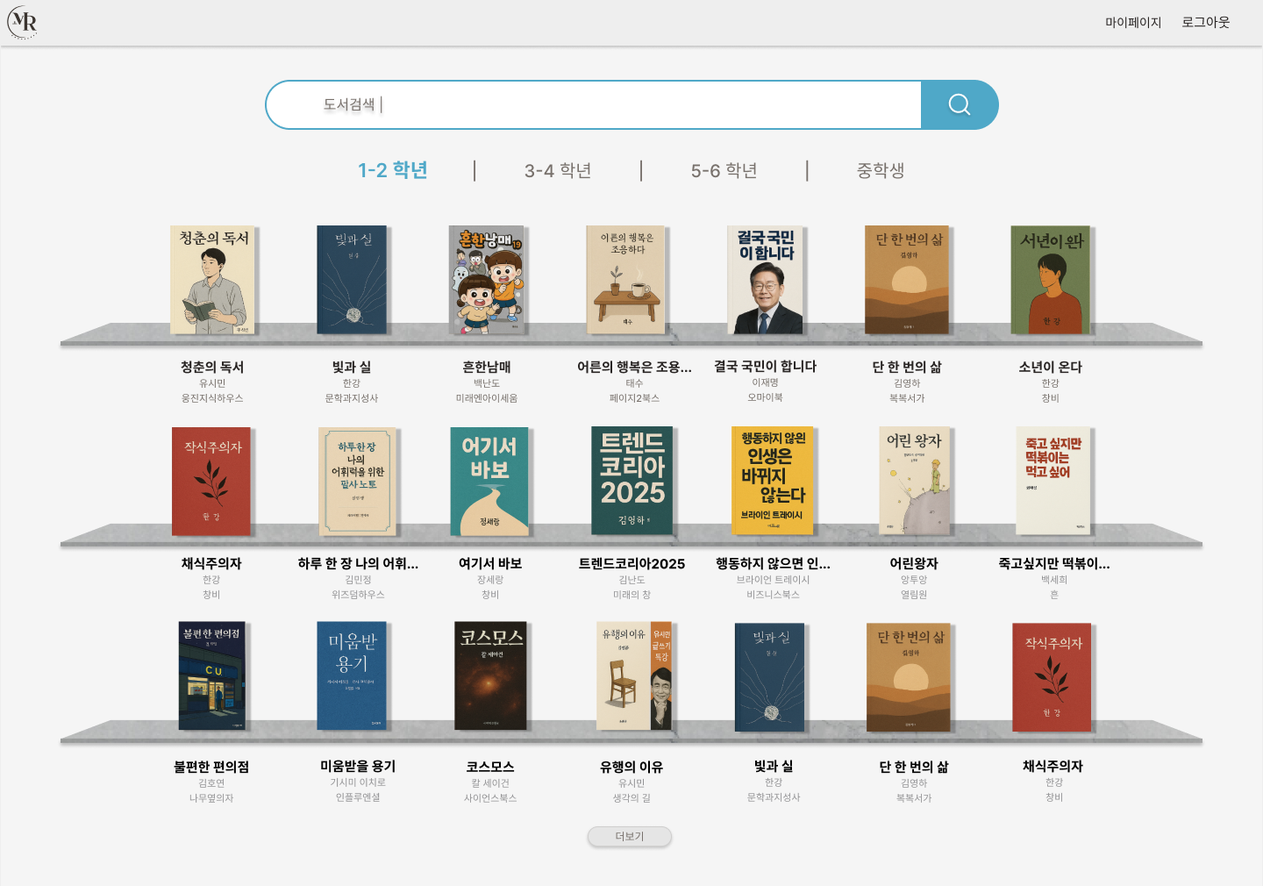
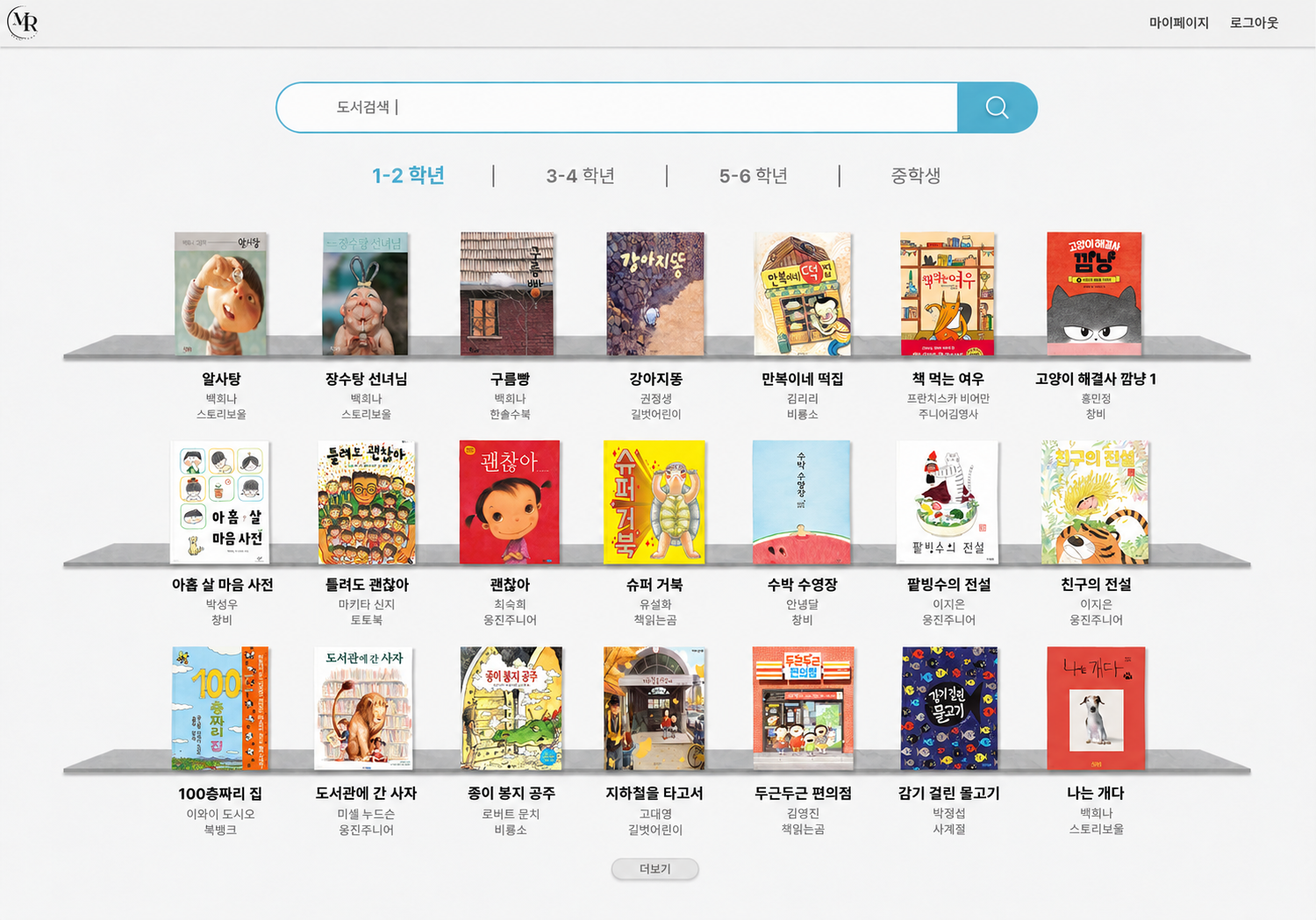
Update project 02 page and images, add ITDAM list cover

diff --git a/html/project2.html b/html/project2.html
@@ -37,7 +37,7 @@
         <p class="detail-subtitle">제안으로 얻은 신뢰, 구현으로 이어진 기회</p>
 
         <p class="detail-lead-text">
-          수작업으로 운영되던 독서 테스트와 재시험을 온라인화해, 학생의
+          수작업으로 운영되던 독서 테스트와 재시험을 온라인화 해, 학생의
           독서 이해도를 누적 관리할 수 있도록 기획한 웹 서비스입니다. 책
           선택부터 독서, 퀴즈, 오답 재풀이, 결과 기록까지 하나의 학습
           흐름으로 연결했습니다.
@@ -71,7 +71,7 @@
 
           <div class="detail-fact">
             <dt>Tools</dt>
-            <dd>Figma</dd>
+            <dd>Figma · HTML</dd>
           </div>
         </dl>
 
@@ -289,7 +289,7 @@
         </div></div>
 <p>학생은 읽은 책을 고르고 문제를 풀며, 선생님은 학생별 기록을 확인합니다. 추가로 학부모가 아이의 독서 현황을 살펴보는 기능도 함께 구성했습니다.</p>
 <div class="case-three"><article><span>학생</span><h3>읽은 책을 찾아 테스트하기</h3><p>문제 풀이, 자동 채점과 재풀이, 개인 독서 기록</p></article><article><span>강사</span><h3>학생의 학습 기록 확인하기</h3><p>학생별 도서·점수·진행 현황을 한곳에서 확인<br />리더보드를 활용해 독서 참여 독려</p></article><article><span>학부모</span><h3>아이의 독서 현황 살펴보기</h3><p>누적 독서량과 개인 기록 확인.</p></article></div>
-<figure class="pj2-wide case-figure"><div class="case-compare"><div><p class="case-version">도서 찾기</p><button class="case-image" type="button" data-enlarge aria-label="기존 시스템의 도서 찾기 — 크게 보기"><img src="../Image/PJ2_images/book_browse.png" width="1440" height="1010" alt="기존 시스템의 도서 찾기" loading="lazy" decoding="async"/><span class="case-enlarge" aria-hidden="true">크게 보기 ↗</span></button>
+<figure class="pj2-wide case-figure"><div class="case-compare"><div><p class="case-version">도서 찾기</p><button class="case-image" type="button" data-enlarge aria-label="기존 시스템의 도서 찾기 — 크게 보기"><img src="../Image/PJ2_images/book_browse.png" width="1500" height="1049" alt="기존 시스템의 도서 찾기" loading="lazy" decoding="async"/><span class="case-enlarge" aria-hidden="true">크게 보기 ↗</span></button>
 <details class="case-details case-screen-notes">
   <summary>도서 탐색 설계 과정 보기</summary>
   <div class="case-screen-notes-body">
@@ -331,7 +331,7 @@
 </div></div></figure>
 <div class="case-record-head">
   <span class="case-record-label">독서 기록과 참여</span>
-  <h3>한 번의 테스트가, 다음 독서로 이어지도록</h3>
+  <h3>한 번의 테스트가, 다음 독서로 이어지도록 했습니다</h3>
   <p>마이페이지에서는 쌓인 독서 기록을 확인하고, 리더보드에서는 다른 학생들과 독서 성과를 비교할 수 있도록 구성했습니다.</p>
 </div>
 <figure class="pj2-wide case-figure">
@@ -422,7 +422,7 @@
 </div></section>
 <section class="detail-section" id="improvement"><div class="detail-container detail-copy"><div class="section-head"><p class="detail-section-label"><span class="label-num">06</span>Design B</p><h2>선생님의 도움이 필요했던 다섯 지점을, 아이들이 스스로 해결할 수 있도록 바꿨습니다</h2><p class="detail-headline">아이들이 다음에 무엇을 해야 할지 알 수 있도록, 필요한 정보를 알맞은 순간에 보여줬습니다.</p></div><p>개선된 다섯 곳은 같은 시각 언어 안에서 정보의 순서·문구·조작 범위를 바꾸는 데 집중했습니다. 아래 A/B 화면은 코드 프로토타입 캡처입니다. 실제 운영 배포 화면과는 구분합니다.</p><article class="case-study case-study-result case-result-editorial" id="improvement-result">
 <p class="case-index">개선 01 · 채점 결과 파악</p>
-<h3>틀린 문제를 직접 찾게 하는 대신,<br />다시 풀 문제를 바로 알려줬습니다.</h3>
+<h3>틀린 문제를 직접 찾게 하는 대신,<br />다시 풀 문제를 바로 알려줬습니다</h3>
 <p class="case-result-lead">기존에는 채점 후 위로 올라가며 빨간 문항을 찾고, 다시 풀 문제 수를 직접 세어야 했습니다. <strong>개수 요약과 시작 버튼을 함께 보여주면, 아이가 분량을 알고 도움 없이 재풀이를 시작할 수 있을 것</strong>이라고 생각했습니다.</p>
 
 <div class="pj2-wide case-result-stage">
@@ -442,8 +442,8 @@
       </div>
       <ol class="case-result-annotations">
         <li><span>01</span><h4>다시 풀 분량을 먼저</h4><p>색을 찾아 세지 않아도,<br />다시 풀 문제 수를 알게</p></li>
-        <li><span>02</span><h4>확인한 자리에서 시작</h4><p>개수가 적힌 버튼으로<br />바로 재풀이에 진입</p></li>
-        <li><span>03</span><h4>고칠 문제로 바로 이동</h4><p>먼저 풀 문항을 선택해도<br />남은 대상까지 모두 연결</p></li>
+        <li><span>02</span><h4>확인한 자리에서 시작</h4><p>개수가 적힌 버튼으로<br /> 바로 재풀이에 진입</p></li>
+        <li><span>03</span><h4>고칠 문제로 바로 이동</h4><p>먼저 풀 문항을 선택해도<br /> 남은 대상까지 모두 연결</p></li>
       </ol>
     </div>
   </div>
@@ -462,7 +462,7 @@
 
 </article><article class="case-study case-result-editorial case-retry-editorial" id="improvement-retry">
 <p class="case-index">개선 02 · 재풀이 대상과 답 수정</p>
-<h3>맞은 문제는 덜어내고,<br />다시 풀 문제와 바꿀 답에 집중하도록 했습니다.</h3>
+<h3>맞은 문제는 덜어내고,<br />다시 풀 문제와 바꿀 답에 집중하도록 했습니다</h3>
 <p class="case-result-lead">기존에는 맞은 문제와 틀린 문제가 한 화면에 섞여 있고, 이전 답도 남아 있어 무엇을 고쳐야 하는지 판단해야 했습니다. <strong>다시 풀 문제만 보여주고 이전 답과 이번 선택을 구분하면, 아이가 수정할 대상을 알고 답을 바꿀 수 있을 것</strong>이라고 생각했습니다.</p>
 <div class="pj2-wide case-result-stage case-retry-stage">
   <div class="case-result-before">
@@ -498,7 +498,7 @@
 </article>
 <article class="case-study case-result-editorial case-flow-editorial" id="improvement-policy">
 <p class="case-index">개선 03 · 미통과 이후 안내</p>
-<h3>통과하지 못한 뒤에도,<br />다음에 할 일과 다시 도전할 조건을 알려줬습니다.</h3>
+<h3>통과하지 못한 뒤에도,<br />다음에 할 일과 다시 도전할 조건을 알려줬습니다</h3>
 <p class="case-result-lead">기존 화면은 ‘다시 도전해보세요!’라고 안내했지만, 재도전 버튼은 없었습니다. 나가서 다시 퀴즈를 찾는 경로도 아이가 알아내야 했습니다. <strong>결과와 다음 행동, 재도전 조건을 함께 안내하면 혼자 다음 학습을 시작할 수 있을 것</strong>이라고 생각했습니다.</p>
 <div class="pj2-wide case-result-stage case-unified-stage">
 <div class="case-result-before">
@@ -523,7 +523,7 @@
 </article>
 <article class="case-study case-result-editorial case-flow-editorial" id="improvement-hint">
 <p class="case-index">개선 04 · 힌트 발견과 활용</p>
-<h3>힌트는 쉽게 찾도록,<br />답의 근거는 책에서 확인하도록 했습니다.</h3>
+<h3>힌트는 쉽게 찾을 수 있도록 했습니다<br /></h3>
 <p class="case-result-lead">기존에는 말풍선 아이콘이 힌트라는 것과 쪽수 표시의 의미를 알아야 했습니다. 학원에서 책을 찾아 다시 읽도록 지도하는 방식은 유지하되, <strong>힌트 버튼과 찾아볼 쪽수를 명확히 안내하면 아이가 책에서 내용을 확인하고 답을 고를 수 있을 것</strong>이라고 생각했습니다.</p>
 <div class="pj2-wide case-hint-story">
 <div class="case-hint-compare">
@@ -555,7 +555,7 @@
 </article>
 <article class="case-study case-result-editorial case-flow-editorial" id="improvement-unanswered">
 <p class="case-index">개선 05 · 입력과 미응답 채점</p>
-<h3>답하지 않은 문제를 확인하고,<br />채점하면 어떻게 되는지 알고 선택하도록 했습니다.</h3>
+<h3>답하지 않은 문제를 확인하고,<br />채점하면 어떻게 되는지 알고 선택하도록 했습니다</h3>
 <p class="case-result-lead">기존에는 단일 선택에 체크박스를 사용하고, 답한 수와 답하지 않은 문항을 채점 전에 파악하기 어려웠습니다. <strong>입력 상태와 미응답 문항, 그대로 채점할 때의 결과를 알려주면 아이가 알고 선택할 수 있을 것</strong>이라고 생각했습니다.</p>
 <div class="pj2-wide case-result-stage case-unified-stage">
 <div class="case-result-before">
@@ -605,36 +605,32 @@
 <h4>진행자의 도움과 아이의 이해를 구분했습니다</h4><p>아이의 <span class="case-keyphrase">도움 요청과 진행자의 개입을 따로</span> 남겼습니다. 개수·현재 답·남은 분량·재도전 규칙은 관찰 후 질문으로 확인했습니다. <span class="case-keyphrase">질문하는 동안의 시간은 수행 시간과 구분</span>하고, 아이가 <span class="case-keyphrase">책을 읽거나 생각하는 시간은 제외하지 않았습니다</span>.</p>
 <h4>성공 기준과 집계 범위를 먼저 정했습니다</h4><p>가설별 <span class="case-keyphrase">관찰 항목과 판정 기준을 정한 뒤 테스트</span>했습니다. <span class="case-keyphrase">화면에서 막히거나 잘못 이해한 결과도 실패로 포함</span>했습니다. 기술 문제·피로 중단 등으로 측정하지 못한 항목은 사유를 남겨 분리하고, <span class="case-keyphrase">중단 전에 확인한 유효 결과는 유지</span>했습니다. 과제별 조건과 측정 여부에 따라 분모가 다릅니다.</p>
 </details>
-<div class="case-test-results-heading"><p>테스트에서 확인한 변화</p><h3>진입은 쉬워졌지만,<br />화면의 뜻까지 모두 전달되지는 않았습니다.</h3><p>과제별 분석 조건을 충족한 사례의 성공 인원과 측정 인원을 함께 표시했습니다.</p></div>
-<div class="case-table-wrap pj2-wide" tabindex="0" role="region" aria-label="A/B 테스트 · 사전 완독 조건을 적용한 잠정 집계"><table class="case-table"><caption>A/B 테스트 · 사전 완독 조건을 적용한 잠정 집계</caption><thead><tr><th scope="col">관찰 지표</th><th scope="col">A</th><th scope="col">B</th><th scope="col">판단</th></tr></thead><tbody><tr><th scope="row">재풀이 개수 정확히 설명</th><td>1/3</td><td>3/3</td><td>개수 파악에 개선 신호</td></tr><tr><th scope="row">도움 없이 재풀이 진입</th><td>1/3</td><td>3/3</td><td>진입 경로에 개선 신호</td></tr><tr><th scope="row">현재 고른 답 이해</th><td>2/3</td><td>3/3</td><td>사전 차이 기준에는 미달</td></tr><tr><th scope="row">답한 수·남은 수 이해</th><td>1/3</td><td>2/3</td><td>B 목표 미달 → C 재개선</td></tr><tr><th scope="row">첫 미통과 후 정책 이해</th><td>1/3</td><td>3/4</td><td>B 목표 미달 → C 재개선</td></tr><tr><th scope="row">미응답 두 규칙 모두 이해</th><td>사후 이해·별도 해석</td><td>2/4</td><td>B 목표 미달 → C 재개선</td></tr></tbody></table></div>
-<p class="case-ab-criteria-note"><strong>B의 사용성 목표는 유효 측정 인원의 80% 이상 성공</strong>입니다. 3명이면 3명, 4명이면 4명, 5명이면 4명 이상이 필요합니다. <strong>A 대비 비교 기준은 성공률 40%p 이상 증가</strong>로 별도 판단했습니다. 예를 들어 2/3 → 3/3은 B 목표는 충족하지만, 차이가 약 33%p여서 비교 기준에는 못 미칩니다. 비교는 같은 과제·측정·노출 조건의 유효 대상이 각 3명 이상일 때만 적용하며, 미응답 규칙 이해는 B 내부 목표로 판단했습니다. 이는 소규모 테스트의 의사결정 기준이며 통계적 유의성을 뜻하지 않습니다.</p>
-<details class="case-details case-result-source"><summary>테스트 결과 원본 데이터 일부 보기</summary>
-<p>과제별 기록이 어떤 형태로 남는지 보여주는 A/B CSV 원본 일부입니다. 아래 값은 집계표가 아니라 개별 과제 기록이며, 읽기 쉽도록 일부 열과 행만 발췌했습니다.</p>
-<div class="case-source-sheet"><div class="case-source-sheet-bar"><span>학생 10명 테스트 · CSV</span><span>원본 일부</span></div><div class="case-source-sheet-scroll" tabindex="0" role="region" aria-label="A/B 테스트 CSV 원본 일부, 좌우와 아래로 스크롤해서 보기"><table><thead><tr><th scope="col">행</th><th scope="col">participant</th><th scope="col">version</th><th scope="col">scenario</th><th scope="col">task1</th><th scope="col">check_progress_ok</th><th scope="col">note_observed</th></tr></thead><tbody><tr><th scope="row">2</th><td><span title="A01-N">A01-N</span></td><td><span title="A_기존">A_기존</span></td><td><span title=""></span></td><td><span title="도움 받아 성공">도움 받아 성공</span></td><td><span title="X">X</span></td><td><span title="채점 후 38초 동안 위아래로 스크롤하며 &quot;이제 뭐 해요?&quot; 질문. 하단 다시풀기 버튼 위치 안내 후 진입. 다시 풀 개수를 4라고 답함(실제 6, 빈칸 2개를 셈에 넣지 않음). 빨간 글씨 보기를 &quot;지금 고른 답&quot;이라고 말함. 19번에서 &quot;모르겠어요&quot; 후 말풍선 아이콘을 보지 못하고 빈칸으로 둔 채 제출.">채점 후 38초 동안 위아래로 스크롤하며 &quot;이제 뭐 해요?&quot; 질문. 하단 다시풀기 버튼 위치 안내 후 진입. 다시 풀 개수를 4라고 답함(실제 6, 빈칸 2개를 셈에 넣지 않음). 빨간 글씨 보기를 &quot;지금 고른 답&quot;이라고 말함. 19번에서 &quot;모르겠어요&quot; 후 말풍선 아이콘을 보지 못하고 빈칸으로 둔 채 제출.</span></td></tr><tr><th scope="row">3</th><td><span title="A01-F1">A01-F1</span></td><td><span title="A_기존">A_기존</span></td><td><span title="fail1">fail1</span></td><td><span title=""></span></td><td><span title=""></span></td><td><span title="결과 카드의 &quot;다시 도전해보세요!&quot;를 읽고 홈으로 클릭. 종료 화면이 뜨자 &quot;어? 다시 풀려고 했는데&quot;라고 말함. &quot;홈 가면 다시 할 수 있는 줄 알았어요.&quot;">결과 카드의 &quot;다시 도전해보세요!&quot;를 읽고 홈으로 클릭. 종료 화면이 뜨자 &quot;어? 다시 풀려고 했는데&quot;라고 말함. &quot;홈 가면 다시 할 수 있는 줄 알았어요.&quot;</span></td></tr><tr><th scope="row">28</th><td><span title="B03-U">B03-U</span></td><td><span title="B_개선">B_개선</span></td><td><span title="unanswered">unanswered</span></td><td><span title=""></span></td><td><span title=""></span></td><td><span title="확인창을 읽고 바로 이대로 제출. &quot;틀린 걸로 된대요.&quot; 첫 기회는 &quot;다시 풀기 있으니까 상관없어요.&quot;">확인창을 읽고 바로 이대로 제출. &quot;틀린 걸로 된대요.&quot; 첫 기회는 &quot;다시 풀기 있으니까 상관없어요.&quot;</span></td></tr><tr><th scope="row">34</th><td><span title="B05-N">B05-N</span></td><td><span title="B_개선">B_개선</span></td><td><span title=""></span></td><td><span title="도움 없이 성공">도움 없이 성공</span></td><td><span title="X">X</span></td><td><span title="확인창에서 돌아가 3번은 채웠지만 20번(주관식)은 &quot;못 쓰겠어요&quot; 하고 이대로 제출. 결과 화면에서 &quot;이거 다 해야 해요?&quot; 질문(대답 없이 관찰) 후 큰 버튼. 진행 질문에 &quot;1개 했고 6개 남았어요&quot;(실제 5개 남음). 10번 힌트 쪽이 책과 1쪽 어긋나 앞뒤로 넘겨 찾음. 목록을 한 번 열어 봄.">확인창에서 돌아가 3번은 채웠지만 20번(주관식)은 &quot;못 쓰겠어요&quot; 하고 이대로 제출. 결과 화면에서 &quot;이거 다 해야 해요?&quot; 질문(대답 없이 관찰) 후 큰 버튼. 진행 질문에 &quot;1개 했고 6개 남았어요&quot;(실제 5개 남음). 10번 힌트 쪽이 책과 1쪽 어긋나 앞뒤로 넘겨 찾음. 목록을 한 번 열어 봄.</span></td></tr><tr><th scope="row">35</th><td><span title="B05-F1">B05-F1</span></td><td><span title="B_개선">B_개선</span></td><td><span title="fail1">fail1</span></td><td><span title=""></span></td><td><span title=""></span></td><td><span title="결과 화면 31초 정지, &quot;통과한 거예요?&quot; 질문. &quot;제목을 다시 읽어볼래?&quot; 안내 후 복습하기. 3-A 질문에 &quot;다시 풀어야 해요&quot;까지만 말함(방법 없음).">결과 화면 31초 정지, &quot;통과한 거예요?&quot; 질문. &quot;제목을 다시 읽어볼래?&quot; 안내 후 복습하기. 3-A 질문에 &quot;다시 풀어야 해요&quot;까지만 말함(방법 없음).</span></td></tr><tr><th scope="row">29</th><td><span title="B03-F2">B03-F2</span></td><td><span title="B_개선">B_개선</span></td><td><span title="fail2">fail2</span></td><td><span title=""></span></td><td><span title=""></span></td><td><span title="복습을 끝까지 넘긴 뒤 &quot;다시 시작하기 버튼이 없네요, 나중에 생기겠죠?&quot; — 선생님 확인 필요를 말하지 못함. 중립 확인 후에도 &quot;그냥 기다리면 돼요.&quot;">복습을 끝까지 넘긴 뒤 &quot;다시 시작하기 버튼이 없네요, 나중에 생기겠죠?&quot; — 선생님 확인 필요를 말하지 못함. 중립 확인 후에도 &quot;그냥 기다리면 돼요.&quot;</span></td></tr></tbody></table></div><p class="case-source-sheet-caption">원본 필드명과 기록을 유지했습니다. 긴 관찰 메모는 셀에 마우스를 올리면 확인할 수 있습니다.</p></div>
-</details>
+<div class="case-test-results-heading"><p>테스트에서 확인한 변화</p><h3>진입은 쉬워졌지만,<br />화면의 뜻까지 모두 전달되지는 않았습니다</h3><p>과제별 분석 조건을 충족한 사례의 성공 인원과 측정 인원을 함께 표시했습니다.</p></div>
+<div class="case-table-wrap pj2-wide" tabindex="0" role="region" aria-label="A/B 비교 ·  각 5명" data-result-kind="synthetic"><table class="case-table"><caption><strong>A/B 비교 · 각 5명</strong></caption><thead><tr><th scope="col">확인한 항목</th><th scope="col">A 기존 화면</th><th scope="col">B 개선 화면</th><th scope="col">해석</th></tr></thead><tbody><tr><th scope="row">다시 풀 문제 수를 정확히 설명</th><td>1/5</td><td>5/5</td><td>다시 풀 분량을 파악하는 데 긍정적인 변화</td></tr><tr><th scope="row">도움 없이 재풀이 시작</th><td>2/5</td><td>5/5</td><td>스스로 재풀이를 시작한 사례 증가</td></tr><tr><th scope="row">현재 선택한 답을 정확히 구분</th><td>3/5</td><td>4/5</td><td>대체로 구분했으나 일부 혼란이 남음</td></tr><tr><th scope="row">답한 수와 남은 수를 정확히 설명</th><td>1/5</td><td>3/5</td><td>이해한 사례가 늘었지만 2명은 혼동</td></tr><tr><th scope="row">첫 미통과 후 복습·재도전 규칙 이해</th><td>0/5</td><td>3/5</td><td>다음 학습 규칙에 대한 설명 보완 필요</td></tr><tr><th scope="row">미응답 제출 시 적용되는 두 규칙 이해</th><td>0/5</td><td>2/5</td><td>선택의 결과를 전달하는 데 어려움이 남음</td></tr><tr><th scope="row">막혔을 때 스스로 힌트 발견</th><td>2/5</td><td>4/5</td><td>필요한 순간 힌트를 발견한 사례 증가</td></tr></tbody></table></div>
+<p class="case-ab-criteria-note">A와 B에 각각 5명이 참여해 모든 과제를 수행했습니다. ‘2/5’는 5명 중 2명이 도움 없이 행동을 완료하거나 질문에 정확히 답했다는 뜻입니다. 목표 달성 여부를 판정하기보다, 스스로 수행한 사례가 얼마나 늘었고 어떤 부분에서 혼란이 남았는지를 보여주는 데 집중했습니다.</p>
+<details class="case-details case-result-source case-synthetic-source" data-record-kind="synthetic"><summary>진행자 패널 기록 보기</summary><p>A/B 각 5명의 기록을 직접 풀이, 상황 과제, 발화·메모로 나눴습니다.</p><details class="case-synthetic-record-view" open><summary>01 · 직접 풀이·재풀이 기록</summary><div class="case-source-sheet case-synthetic-natural"><div class="case-source-sheet-bar"><span>01 · 직접 풀이·재풀이 기록</span></div><div class="case-source-sheet-scroll" tabindex="0" role="region" aria-label="01 · 직접 풀이·재풀이 기록 가상 기록, 가로와 세로로 스크롤해서 보기"><table><thead><tr><th scope="col">행</th><th scope="col">session</th><th scope="col">participant</th><th scope="col">version</th><th scope="col">wrong1</th><th scope="col">said_count</th><th scope="col">count_match</th><th scope="col">task1</th><th scope="col">check_prev_new_ok</th><th scope="col">check_progress_ok</th><th scope="col">hint_find</th></tr></thead><tbody><tr><th scope="row">2</th><td>A01-N</td><td>A01</td><td>A</td><td>4</td><td>4</td><td>Y</td><td>도움 없이 성공</td><td>O</td><td>X</td><td>막힘 중 스스로 찾음</td></tr><tr><th scope="row">3</th><td>A02-N</td><td>A02</td><td>A</td><td>4</td><td>3</td><td>N</td><td>도움 없이 성공</td><td>O</td><td>O</td><td>막힘 중 못 찾음</td></tr><tr><th scope="row">4</th><td>A03-N</td><td>A03</td><td>A</td><td>4</td><td>2</td><td>N</td><td>도움 받아 성공</td><td>O</td><td>X</td><td>막힘 중 스스로 찾음</td></tr><tr><th scope="row">5</th><td>A04-N</td><td>A04</td><td>A</td><td>4</td><td>3</td><td>N</td><td>도움 받아 성공</td><td>X</td><td>X</td><td>막힘 중 못 찾음</td></tr><tr><th scope="row">6</th><td>A05-N</td><td>A05</td><td>A</td><td>4</td><td>2</td><td>N</td><td>도움 받아 성공</td><td>X</td><td>X</td><td>막힘 중 못 찾음</td></tr><tr><th scope="row">7</th><td>B01-N</td><td>B01</td><td>B</td><td>4</td><td>4</td><td>Y</td><td>도움 없이 성공</td><td>O</td><td>O</td><td>막힘 중 스스로 찾음</td></tr><tr><th scope="row">8</th><td>B02-N</td><td>B02</td><td>B</td><td>4</td><td>4</td><td>Y</td><td>도움 없이 성공</td><td>O</td><td>O</td><td>막힘 중 스스로 찾음</td></tr><tr><th scope="row">9</th><td>B03-N</td><td>B03</td><td>B</td><td>6</td><td>6</td><td>Y</td><td>도움 없이 성공</td><td>O</td><td>X</td><td>막힘 중 스스로 찾음</td></tr><tr><th scope="row">10</th><td>B04-N</td><td>B04</td><td>B</td><td>4</td><td>4</td><td>Y</td><td>도움 없이 성공</td><td>O</td><td>O</td><td>막힘 중 스스로 찾음</td></tr><tr><th scope="row">11</th><td>B05-N</td><td>B05</td><td>B</td><td>4</td><td>4</td><td>Y</td><td>도움 없이 성공</td><td>X</td><td>X</td><td>막힘 중 못 찾음</td></tr></tbody></table></div><p class="case-source-sheet-caption">count_match는 Y/N, 이해 질문은 O/X, 행동 과제는 도움 여부로 구분합니다.</p></div></details><details class="case-synthetic-record-view"><summary>02 · 미통과·미응답 상황 기록</summary><div class="case-source-sheet case-synthetic-scenario"><div class="case-source-sheet-bar"><span>02 · 미통과·미응답 상황 기록</span></div><div class="case-source-sheet-scroll" tabindex="0" role="region" aria-label="02 · 미통과·미응답 상황 기록 가상 기록, 가로와 세로로 스크롤해서 보기"><table><thead><tr><th scope="col">행</th><th scope="col">session</th><th scope="col">participant</th><th scope="col">version</th><th scope="col">scenario</th><th scope="col">check_next_step_ok</th><th scope="col">check_unanswered_ok</th><th scope="col">check_attempt_cost_ok</th></tr></thead><tbody><tr><th scope="row">2</th><td>A01-F1</td><td>A01</td><td>A</td><td>fail1</td><td>X</td><td>—</td><td>—</td></tr><tr><th scope="row">3</th><td>A01-U</td><td>A01</td><td>A</td><td>unanswered</td><td>—</td><td>O</td><td>X</td></tr><tr><th scope="row">4</th><td>A02-F1</td><td>A02</td><td>A</td><td>fail1</td><td>X</td><td>—</td><td>—</td></tr><tr><th scope="row">5</th><td>A02-U</td><td>A02</td><td>A</td><td>unanswered</td><td>—</td><td>O</td><td>X</td></tr><tr><th scope="row">6</th><td>A03-F1</td><td>A03</td><td>A</td><td>fail1</td><td>X</td><td>—</td><td>—</td></tr><tr><th scope="row">7</th><td>A03-U</td><td>A03</td><td>A</td><td>unanswered</td><td>—</td><td>O</td><td>X</td></tr><tr><th scope="row">8</th><td>A04-F1</td><td>A04</td><td>A</td><td>fail1</td><td>X</td><td>—</td><td>—</td></tr><tr><th scope="row">9</th><td>A04-U</td><td>A04</td><td>A</td><td>unanswered</td><td>—</td><td>X</td><td>X</td></tr><tr><th scope="row">10</th><td>A05-F1</td><td>A05</td><td>A</td><td>fail1</td><td>X</td><td>—</td><td>—</td></tr><tr><th scope="row">11</th><td>A05-U</td><td>A05</td><td>A</td><td>unanswered</td><td>—</td><td>X</td><td>X</td></tr><tr><th scope="row">12</th><td>B01-F1</td><td>B01</td><td>B</td><td>fail1</td><td>O</td><td>—</td><td>—</td></tr><tr><th scope="row">13</th><td>B01-U</td><td>B01</td><td>B</td><td>unanswered</td><td>—</td><td>O</td><td>O</td></tr><tr><th scope="row">14</th><td>B02-F1</td><td>B02</td><td>B</td><td>fail1</td><td>O</td><td>—</td><td>—</td></tr><tr><th scope="row">15</th><td>B02-U</td><td>B02</td><td>B</td><td>unanswered</td><td>—</td><td>O</td><td>X</td></tr><tr><th scope="row">16</th><td>B03-F1</td><td>B03</td><td>B</td><td>fail1</td><td>X</td><td>—</td><td>—</td></tr><tr><th scope="row">17</th><td>B03-U</td><td>B03</td><td>B</td><td>unanswered</td><td>—</td><td>O</td><td>O</td></tr><tr><th scope="row">18</th><td>B04-F1</td><td>B04</td><td>B</td><td>fail1</td><td>X</td><td>—</td><td>—</td></tr><tr><th scope="row">19</th><td>B04-U</td><td>B04</td><td>B</td><td>unanswered</td><td>—</td><td>O</td><td>X</td></tr><tr><th scope="row">20</th><td>B05-F1</td><td>B05</td><td>B</td><td>fail1</td><td>O</td><td>—</td><td>—</td></tr><tr><th scope="row">21</th><td>B05-U</td><td>B05</td><td>B</td><td>unanswered</td><td>—</td><td>O</td><td>X</td></tr></tbody></table></div><p class="case-source-sheet-caption">참가자의 상황 과제를 별도 세션 행으로 표시했습니다. —는 해당 세션에서 측정하지 않는 항목이며, X와 구분합니다.</p></div></details><details class="case-synthetic-record-view"><summary>03 · 주요 사례 발화·메모</summary><div class="case-source-sheet case-synthetic-notes"><div class="case-source-sheet-bar"><span>03 · 주요 사례 발화·메모 발췌</span></div><div class="case-source-sheet-scroll" tabindex="0" role="region" aria-label="03 · 주요 사례 발화·메모 발췌 가상 기록, 가로와 세로로 스크롤해서 보기"><table><thead><tr><th scope="col">행</th><th scope="col">session</th><th scope="col">participant</th><th scope="col">scenario</th><th scope="col">note_observed</th><th scope="col">note_interpretation</th></tr></thead><tbody><tr><th scope="row">2</th><td>A03-N</td><td>A03</td><td>N</td><td>채점 후 화면을 위아래로 살펴보며 “이제 뭐 해요?”라고 질문. 버튼 위치를 안내한 뒤 재풀이에 진입함.</td><td>다음 행동을 스스로 찾기 어려운 상황.</td></tr><tr><th scope="row">3</th><td>A04-N</td><td>A04</td><td>N</td><td>빨간색으로 표시된 이전 답을 가리키며 “지금 고른 답”이라고 설명함.</td><td>이전 답과 현재 답을 혼동하는 상황.</td></tr><tr><th scope="row">4</th><td>B03-N</td><td>B03</td><td>N</td><td>6문제 중 1개에 답하고 5개가 남은 상태에서 “1개 했고 6개 남았어요”라고 설명함.</td><td>답한 수는 알지만 남은 수를 잘못 이해하는 상황.</td></tr><tr><th scope="row">5</th><td>B04-F1</td><td>B04</td><td>fail1</td><td>결과 화면에서 “통과한 거예요?”라고 질문. 이후 할 일을 묻자 “다시 풀어야 해요”까지만 설명함.</td><td>현재 상태와 복습 후 재도전하는 순서가 충분히 전달되지 않은 상황.</td></tr><tr><th scope="row">6</th><td>B02-U</td><td>B02</td><td>unanswered</td><td>“틀린 걸로 된대요”라고 설명했지만, 첫 풀이 기회 사용은 “다시 풀기 있으니까 상관없어요”라고 답함.</td><td>오답 처리는 이해했지만 제출로 사용하는 기회의 의미는 이해하지 못한 상황.</td></tr></tbody></table></div><p class="case-source-sheet-caption">관찰·발화와 진행자 해석을 분리했으며, 10명 중 주요 사례 5개를 발췌했습니다.</p></div></details></details>
 <p class="case-insight"><span>다음 설계로 이어진 발견</span>버튼을 찾아 누를 수 있어도, 지금 상태와 선택의 결과를 정확히 이해했다고 볼 수는 없었습니다.</p>
 </div>
 <div class="case-test-voice-band"><div class="detail-container detail-copy">
 <div class="case-test-voice-group">
-<p class="case-meeting-label">숫자 뒤에 남아 있던 아이들의 혼란</p>
+<p class="case-meeting-label">실제 관찰 기록에서 확인한 아이들의 혼란</p>
 <div class="case-meeting-quotes case-test-quotes">
- <figure><span>응답 현황 · B05-N</span><blockquote>“1개 했고 6개 남았어요”</blockquote><p class="case-test-quote-context">실제로는 1개에 답했고 5개가 남아 있었습니다. 답한 수와 남은 수를 구분하는 표시를 다시 검토했습니다.</p><figcaption>학생 발화 · 진행자 관찰 메모</figcaption></figure>
- <figure><span>미응답 선택 · B03-U</span><blockquote>“다시 풀기 있으니까 상관없어요.”</blockquote><p class="case-test-quote-context">미응답의 오답 처리는 설명했지만, 첫 풀이 기회 사용에 대해서는 이렇게 답했습니다. 다시 풀 수 있다는 안내만으로 선택의 차이가 전달되는지 살펴봤습니다.</p><figcaption>학생 발화 · 진행자 관찰 메모</figcaption></figure>
- <figure><span>첫 미통과 상태 · B05-F1</span><blockquote>“통과한 거예요?”</blockquote><p class="case-test-quote-context">미통과 결과 화면을 본 뒤 통과 여부를 물었습니다. 제목과 점수만으로 현재 상태를 이해할 수 있는지 다시 살펴봤습니다.</p><figcaption>학생 발화 · 진행자 관찰 메모</figcaption></figure>
+ <figure><span>응답 현황 · B03-N</span><blockquote>“1개 했고 6개 남았어요”</blockquote><p class="case-test-quote-context">실제로는 1개에 답했고 5개가 남아 있었습니다. 답한 수와 남은 수를 구분하는 표시를 다시 검토했습니다.</p><figcaption>학생 발화 · 진행자 관찰 메모</figcaption></figure>
+ <figure><span>미응답 선택 · B02-U</span><blockquote>“다시 풀기 있으니까 상관없어요.”</blockquote><p class="case-test-quote-context">미응답의 오답 처리는 설명했지만, 첫 풀이 기회 사용에 대해서는 이렇게 답했습니다. 다시 풀 수 있다는 안내만으로 선택의 차이가 전달되는지 살펴봤습니다.</p><figcaption>학생 발화 · 진행자 관찰 메모</figcaption></figure>
+ <figure><span>첫 미통과 상태 · B04-F1</span><blockquote>“통과한 거예요?”</blockquote><p class="case-test-quote-context">미통과 결과 화면을 본 뒤 통과 여부를 물었습니다. 제목과 점수만으로 현재 상태를 이해할 수 있는지 다시 살펴봤습니다.</p><figcaption>학생 발화 · 진행자 관찰 메모</figcaption></figure>
  <figure><span>두 번째 미통과 · B03-F2</span><blockquote>“그냥 기다리면 돼요.”</blockquote><p class="case-test-quote-context">선생님 확인이 필요하다는 조건을 설명하지 못했습니다. 시간이 지나면 다시 풀 수 있다고 생각하는 오해가 남았습니다.</p><figcaption>학생 발화 · 진행자 관찰 메모</figcaption></figure>
 </div>
 <p class="case-meeting-source">출처: A/B 테스트 CSV의 note_observed · 각 과제의 실제 발화와 관찰 기록</p>
 </div>
 </div></div>
-<div class="detail-container detail-copy">
-<details class="case-details"><summary>분모·분석 한계와 보완할 원자료</summary><p>표는 완독 조건과 과업별 유효 사례를 적용한 잠정 분석입니다. 참가자는 총 10명이며, CSV의 36세션을 36명으로 세지 않습니다. 일부 코드 대응·이전 화면 노출·원관찰 기록은 추가 대조가 필요합니다.</p><p>자연 풀이에서는 완독 조건을 충족한 A/B 각 4명 중 만점으로 재풀이가 발생하지 않은 1명씩을 제외해, 재풀이 지표의 분모는 각 3명입니다. 첫 미통과 후 이해 질문에서는 A 1명이 피로로 중단해 질문하지 못했으므로 해당 항목만 미측정으로 분리했습니다. 중단 전의 유효 기록은 유지했으며, 완독 조건을 적용한 정책 이해 지표의 분모는 A 3명·B 4명입니다. 힌트 발견은 B 유효 기회가 2건이라 최소 인원 조건에 못 미쳤고, 실제 쪽수 오류가 있던 책 근거 활용은 별도로 보류했습니다. 시간 감소율·독해력 향상·학원 업무 감소로 확대하지 않습니다.</p></details>
+
 </div></section>
 <section class="detail-section" id="improvement-c"><div class="detail-container detail-copy">
 <div class="section-head"><p class="detail-section-label"><span class="label-num">08</span>Design C</p><h2>더 많은 설명 대신, 선택하는 자리의 정보를 바꿨습니다</h2><p class="detail-headline">첫 개선에서 남은 세 문제를 두 번째 개선안 C로 수정했습니다.</p></div>
 <p>기존 색과 카드 구조를 유지하며, 테스트에서 남은 혼란 세 가지에 집중했습니다.</p>
 <article class="case-study case-result-editorial" id="iteration-blank">
 <p class="case-index">재개선 01 · 미응답 채점</p>
-<h3>버튼을 고르는 순간,<br />그 선택의 결과도 함께 보이도록</h3><p class="case-result-lead">B에서는 “다시 풀기 있으니까 상관없어요”라는 반응이 남았습니다. <strong>규칙을 한곳에 모으기보다, 각 버튼 아래에 선택의 결과를 붙였습니다.</strong></p>
+<h3>버튼을 고르는 순간,<br />그 선택의 결과도 함께 보이도록 했습니다</h3><p class="case-result-lead">B에서는 “다시 풀기 있으니까 상관없어요”라는 반응이 남았습니다. <strong>규칙을 한곳에 모으기보다, 각 버튼 아래에 선택의 결과를 붙였습니다.</strong></p>
 <div class="pj2-wide case-result-stage">
 <div class="case-result-before"><div class="case-result-sidehead"><span>B · 1차 개선</span><p>규칙을 읽고 선택의 차이를 알아야 했던 확인창</p></div>
 <button class="case-image" type="button" data-enlarge aria-label="B · 1차 개선 01 · 미응답 채점 원본 크게 보기"><img src="../Image/PJ2_images/redesign/b_dialog_capture_user.png" width="960" height="599" alt="B의 미응답 확인창. 오답 처리와 다시 풀기 규칙을 두 버튼 위에서 설명한다." loading="lazy" decoding="async"/><span class="case-enlarge" aria-hidden="true">원본 크게 보기 ↗</span></button>
@@ -644,7 +640,7 @@
 </div></article>
 <article class="case-study case-result-editorial" id="iteration-progress">
 <p class="case-index">재개선 02 · 재풀이 진행률</p>
-<h3>몇 번째 문제인지보다,<br />답한 수와 남은 수를 먼저</h3><p class="case-result-lead">B에서는 답한 수와 남은 수를 잘못 짝지어 읽는 사례가 있었습니다. <strong>응답 현황을 가장 큰 문장으로 보여주고, 현재 순번은 보조 정보로 내렸습니다.</strong></p>
+<h3>몇 번째 문제인지보다,<br />답한 수와 남은 수를 먼저 확인하도록 했습니다</h3><p class="case-result-lead">B에서는 답한 문제 수와 남은 문제 수를 잘못 짝지어 읽는 사례가 있었습니다. <strong>응답 현황을 가장 큰 문장으로 보여주고, 현재 순번은 보조 정보로 내렸습니다.</strong></p>
 <div class="pj2-wide case-result-stage">
 <div class="case-result-before"><div class="case-result-sidehead"><span>B · 1차 개선</span><p>현재 순번이 응답 현황보다 크게 보이는 화면</p></div>
 <button class="case-image" type="button" data-enlarge aria-label="B · 1차 개선 02 · 재풀이 진행률 원본 크게 보기"><img src="../Image/PJ2_images/redesign/r_b_progress.png" width="1456" height="1142" alt="B의 재풀이 화면. 현재 순번이 크게 표시되고 답 입력 수는 오른쪽에 작게 표시된다." loading="lazy" decoding="async"/><span class="case-enlarge" aria-hidden="true">원본 크게 보기 ↗</span></button>
@@ -654,7 +650,7 @@
 </div></article>
 <article class="case-study case-result-editorial" id="iteration-policy">
 <p class="case-index">재개선 03 · 미통과 후 다음 행동</p>
-<h3>통과하지 못한 결과와,<br />지금 해야 할 일을 분명하게</h3><p class="case-result-lead">첫 미통과에서는 “통과한 거예요?”(B05-F1), 두 번째 미통과에서는 “그냥 기다리면 돼요”(B03-F2)라는 반응이 남았습니다. <strong>두 상황에서 발견한 결과·다음 행동의 혼란을 함께 개선</strong>했으며, 아래에는 두 번째 미통과 화면을 대표로 비교했습니다.</p>
+<h3>통과하지 못한 결과와,<br />지금 해야 할 일을 분명하게 보여주었습니다</h3><p class="case-result-lead">첫 미통과에서는 “통과한 거예요?”(B04-F1), 두 번째 미통과에서는 “그냥 기다리면 돼요”(B03-F2)라는 반응이 남았습니다. <strong>두 상황에서 발견한 결과·다음 행동의 혼란을 함께 개선</strong>했으며, 아래에는 두 번째 미통과 화면을 대표로 비교했습니다.</p>
 <div class="pj2-wide case-result-stage">
 <div class="case-result-before"><div class="case-result-sidehead"><span>B · 1차 개선</span><p>점수와 안내에서 다음 행동을 파악해야 했던 결과</p></div>
 <button class="case-image" type="button" data-enlarge aria-label="B · 1차 개선 03 · 미통과 후 다음 행동 원본 크게 보기"><img src="../Image/PJ2_images/redesign/r_b_fail2.png" width="1280" height="926" alt="B의 두 번째 미통과 결과. 점수 아래 진전 정보가 있고 선생님 확인 안내는 회색 상자에 들어 있다." loading="lazy" decoding="async"/><span class="case-enlarge" aria-hidden="true">원본 크게 보기 ↗</span></button>
@@ -678,7 +674,13 @@
 </details>
 <p><strong>행동 성공을 이해 성공으로 바꾸지 않았습니다.</strong> 첫 미통과 후에는 5명 모두 다음 행동에 스스로 진입했지만 정책 설명은 4명이 성공했습니다. 선생님이 열어야 다시 할 수 있다는 최초 이해는 3명으로, 보충 질문 뒤 답변이 좋아져도 최초 판정을 덮지 않았습니다.</p>
 
-<details class="case-details"><summary>재검증의 조건과 해석 범위</summary><p>C는 B와 과제·노출·가림 질문 조건이 달라 B→C의 직접 개선율로 비교하지 않습니다. 신규 5명은 초4~중1이며 초3은 포함하지 않았습니다. 과제별 수치를 평균 내 전체 UX 점수로 만들지 않았습니다.</p><p>미응답 핵심 4/5는 입력 O/X 기준입니다. C03의 첫 기회 사용 이해를 뒷받침할 원문과, 메모 오류로 확인된 C03·C05의 보충 발화를 보완해야 합니다. 잘못된 인용은 사용하지 않습니다. 재풀이 R의 중단은 질문 뒤에 일어났고, 독립 진입 뒤 진행자 안내는 진입 성공과 분리했습니다.</p></details>
+<details class="case-details"><summary>재검증의 조건과 해석 범위</summary>
+<p><strong>C는 B와 다른 조건에서 진행했기 때문에, B보다 얼마나 좋아졌는지를 직접 비교하지 않았습니다.</strong> 과제 구성, 이전 화면을 본 경험, 선택 후 화면을 가리고 질문하는 조건이 달랐습니다. C에는 초4~중1 신규 참가자 5명이 참여했으며, 초3은 포함되지 않았습니다. 과제별 결과는 따로 확인하고, 평균을 내어 하나의 ‘전체 UX 점수’로 합치지 않았습니다.</p>
+<p><strong>기록을 해석할 때는 다음 기준을 적용했습니다.</strong></p>
+<p><strong>미응답 핵심 이해 4/5</strong><br />기록에 O/X로 표시된 판정을 기준으로 집계했습니다.</p>
+<p><strong>참가자 발화</strong><br />C03·C05의 보충 발화에는 메모 오류가 확인됐습니다. 원문과 대조해 보완하기 전까지 해당 발화는 인용하지 않습니다.</p>
+<p><strong>재풀이 진입</strong><br />재풀이 과제 R의 중단은 이해 질문이 끝난 뒤에 발생했습니다. 또한 스스로 재풀이 화면에 들어간 것과, 들어간 뒤 진행자의 안내를 받은 것은 나누어 기록했습니다.</p>
+</details>
 <p class="case-teacher-bridge">선생님 확인 조건을 이해하기 쉽게 다듬는 일은 과제로 남았습니다. 이와 함께, 학생에게 안내한 다음 행동이 실제로 이어지도록 <strong>선생님이 결과를 확인하고 퀴즈를 다시 열어 주는 화면</strong>까지 설계했습니다.</p>
 </div></section>
 <section class="detail-section" id="teacher"><div class="detail-container detail-copy"><div class="section-head"><p class="detail-section-label"><span class="label-num">10</span>End-to-end</p><p class="case-teacher-transition">학생의 테스트에서, 선생님의 후속 지도로</p><h2>아이의 테스트가 끝난 뒤,<br />선생님의 후속 지도까지 연결했습니다</h2><p class="detail-headline">확인이 필요한 학생을 찾고, 학습 결과를 살핀 뒤, 퀴즈를 다시 열어 주도록 설계했습니다.</p></div>
@@ -699,7 +701,7 @@
 </article>
 <article class="pj2-wide case-teacher-screen" id="teacher-reopened">
 <div class="case-teacher-screen-copy"><p class="case-index">04 · 학생 화면 반영</p><h3>선생님의 조치가,<br />학생의 다음 행동으로 이어지도록</h3><p class="case-teacher-screen-lead">선생님이 퀴즈를 열면 학생 화면에서도 바뀐 상태와 지금 할 수 있는 행동을 확인할 수 있도록 연결했습니다.</p><ol class="case-teacher-screen-points"><li><h4>바뀐 상태를 먼저 안내</h4><p>선생님이 퀴즈를 열어 주셨다는 사실을 표시</p></li><li><h4>시작할 문제 범위를 버튼에</h4><p>20문제 새로 풀기로 처음부터 시작함을 안내</p></li><li><h4>이번 도전 이후의 조건</h4><p>다시 미통과하면 선생님과 확인해야 함을 설명</p></li></ol></div>
-<figure class="case-teacher-screen-figure"><button class="case-image" type="button" data-enlarge aria-label="04 · 학생 화면 반영 원본 크게 보기"><img src="../Image/PJ2_images/redesign/teacher_reopened_capture_user.png" width="1892" height="1257" alt="04 · 학생 화면 반영. 선생님이 퀴즈를 열면 학생 화면에서도 바뀐 상태와 지금 할 수 있는 행동을 확인할 수 있도록 연결했습니다." loading="lazy" decoding="async"/><span class="case-enlarge" aria-hidden="true">원본 크게 보기 ↗</span></button><figcaption>재개방 뒤 학생 화면의 별도 예시입니다. 앞의 교사 화면과 점수는 다를 수 있습니다.</figcaption></figure>
+<figure class="case-teacher-screen-figure"><button class="case-image" type="button" data-enlarge aria-label="04 · 학생 화면 반영 원본 크게 보기"><img src="../Image/PJ2_images/redesign/teacher_reopened_capture_user.png" width="1539" height="1022" alt="04 · 학생 화면 반영. 선생님이 퀴즈를 열면 학생 화면에서도 바뀐 상태와 지금 할 수 있는 행동을 확인할 수 있도록 연결했습니다." loading="lazy" decoding="async"/><span class="case-enlarge" aria-hidden="true">원본 크게 보기 ↗</span></button><figcaption>재개방 뒤 학생 화면의 별도 예시입니다. 앞의 교사 화면과 점수는 다를 수 있습니다.</figcaption></figure>
 </article>
 <div class="case-table-wrap pj2-wide" tabindex="0" role="region" aria-label="학생·교사 화면에 공통으로 적용하는 정책"><table class="case-table"><caption>학생·교사 화면에 공통으로 적용하는 정책</caption><thead><tr><th scope="col">정책</th><th scope="col">정의</th></tr></thead><tbody><tr><th scope="row">열어 줄 때의 범위</th><td>20문제 첫 풀이 + 틀리거나 답하지 않은 문제 재풀이 1회</td></tr><tr><th scope="row">도전 소진</th><td>재풀이까지 마친 최종 채점 시점. 중간에 나갔다고 소진하지 않음</td></tr><tr><th scope="row">다시 미통과하면</th><td>자동 추가 도전 없이 다시 선생님 확인 필요</td></tr><tr><th scope="row">확인 기록</th><td>교사가 확인했다는 기록. 복습 화면 방문을 학습 완료로 간주하지 않음</td></tr></tbody></table></div>
 <p class="case-teacher-table-note">로컬 프로토타입에서 상태 연결과 동작을 확인한 단계입니다. 실제 교사 업무 시간 감소와 운영 배포는 아직 이 사용성 결과로 입증하지 않았습니다.</p>
@@ -758,7 +760,7 @@
 <details class="case-details case-collaboration-details"><summary>화면 연결과 코멘트가 담긴 전체 프로토타입 보기</summary><figure><button class="case-image" type="button" data-enlarge aria-label="기존 서비스 구축 당시 전체 프로토타입 원본 크게 보기"><img src="../Image/PJ2_images/prototype_flow.png" width="4104" height="2052" alt="기존 서비스 구축 당시 Figma 전체 프로토타입. 학생·강사·학부모 화면 간 연결과 화면별 코멘트 위치가 표시되어 있다." loading="lazy" decoding="async" /><span class="case-enlarge" aria-hidden="true">원본 크게 보기 ↗</span></button><figcaption>기존 서비스 구축 당시의 자료입니다. 화면 간 연결과 코멘트 위치를 확인할 수 있는 전체 이미지입니다.</figcaption></figure></details>
 </div></section>
 <section class="detail-section" id="reflection"><div class="detail-container detail-copy"><div class="section-head"><p class="detail-section-label"><span class="label-num">13</span>Reflection</p><h2>좋아 보이는 화면보다, 판단의 근거를 남기는 디자이너로</h2><p class="detail-headline">처음의 가정, 아이의 실제 행동, 다음 설계 결정이 이어지도록 했습니다.</p></div>
-<div class="case-reflection"><article><span>01</span><h3>단순함은 화면의 모양만으로 정할 수 없었습니다</h3><p>정보를 줄이는 것보다 아이가 무엇을 알아야 선택할 수 있는지 먼저 정의해야 했습니다. 숫자와 버튼이 보이는 것과 그 의미를 이해하는 것은 달랐습니다.</p></article><article><span>02</span><h3>성공한 조작과 이해한 규칙은 다른 결과였습니다</h3><p>다음 화면에 들어갔다고 정책까지 이해한 것으로 판정하지 않았습니다. C에서도 교사 재개방 조건의 최초 이해는 3/5로 남겼습니다.</p></article><article><span>03</span><h3>사용자 경험을 바꾸려면 정책과 업무도 이어야 했습니다</h3><p>아이에게 선생님을 찾아가라고 말한 뒤, 선생님에게 필요한 확인과 조치가 무엇인지 설계했습니다. 학생 화면만으로 닫히지 않는 흐름을 끝까지 연결했습니다.</p></article><article><span>04</span><h3>혼자 결정할수록, 반대 증거를 기록해야 했습니다</h3><p>원하는 답변만 모으지 않고 중단·개입·준비 오류와 미달 지표를 나눴습니다. 다음 개선의 근거를 남기는 것이 화면을 더 만드는 것보다 중요했습니다.</p></article></div>
+<div class="case-reflection"><article><span>01</span><h3>단순함은 화면의 모양만으로 정할 수 없었습니다</h3><p>정보를 줄이는 것보다 아이가 무엇을 알아야 선택할 수 있는지 먼저 정의해야 했습니다. 숫자와 버튼이 보이는 것과 그 의미를 이해하는 것은 달랐습니다.</p></article><article><span>02</span><h3>성공한 조작과 이해한 규칙은 다른 결과였습니다</h3><p>다음 화면에 들어갔다고 정책까지 이해한 것으로 판정하지 않았습니다. C검증에서도 교사 재개방 조건의 최초 이해는 3/5로 남겼습니다.</p></article><article><span>03</span><h3>사용자 경험을 바꾸려면 정책과 업무도 이어야 했습니다</h3><p>아이에게 선생님을 찾아가라고 말한 뒤, 선생님에게 필요한 확인과 조치가 무엇인지 설계했습니다. 학생 화면만으로 닫히지 않는 흐름을 끝까지 연결했습니다.</p></article><article><span>04</span><h3>혼자 결정할수록, 반대 증거를 기록해야 했습니다</h3><p>원하는 답변만 모으지 않고 중단·개입·준비 오류와 미달 지표를 나눴습니다. 다음 개선의 근거를 남기는 것이 화면을 더 만드는 것보다 중요했습니다.</p></article></div>
 <p class="case-closing">이 프로젝트에서 바꾼 것은 화면뿐 아니라, 아이가 이해할 것이라는 가정을 확인하고 수정하는 제 작업 방식이었습니다.</p>
 </div></section><dialog class="case-lightbox" aria-label="화면 크게 보기"><button type="button" class="case-lightbox-close" aria-label="확대 화면 닫기">닫기 ×</button><div class="case-lightbox-scroll"><img alt=""/></div><p class="case-lightbox-caption"></p></dialog>    <section class="next-project">
       <div class="detail-container">

diff --git a/css/project2.css b/css/project2.css
@@ -869,3 +869,17 @@
 .project-two .case-collaboration-details[open] { padding-bottom:28px; }
 
 .project-two #test-ab .case-ab-criteria-note { max-width:none; margin:0 0 30px; font-size:12px; line-height:1.95; color:var(--muted); }
+
+/* Synthetic record preview: isolated from measured test records. */
+.project-two .case-synthetic-record-view { margin:0 0 18px; border:1px solid #e1e4df; border-radius:10px; overflow:hidden; }
+.project-two .case-synthetic-record-view > summary { padding:15px 18px; background:#f6f7f4; font-size:13px; }
+.project-two .case-synthetic-record-view .case-source-sheet { margin:0; border:0; border-radius:0; }
+.project-two .case-synthetic-source .case-source-sheet table { width:1800px; }
+.project-two .case-synthetic-source .case-source-sheet th, .project-two .case-synthetic-source .case-source-sheet td { vertical-align:middle; }
+.project-two .case-synthetic-source .case-source-sheet tr > :nth-child(2) { width:145px; }
+.project-two .case-synthetic-source .case-source-sheet tr > :nth-child(3) { width:110px; }
+.project-two .case-synthetic-source .case-source-sheet tr > :nth-child(n+4) { width:160px; }
+.project-two .case-synthetic-source .case-synthetic-notes table { width:1160px; }
+.project-two .case-synthetic-source .case-synthetic-notes tr > :nth-child(4) { width:110px; }
+.project-two .case-synthetic-source .case-synthetic-notes tr > :nth-child(n+5) { width:340px; white-space:normal; overflow-wrap:anywhere; line-height:1.85; }
+.project-two .case-synthetic-source .case-source-sheet-bar { flex-wrap:wrap; }
